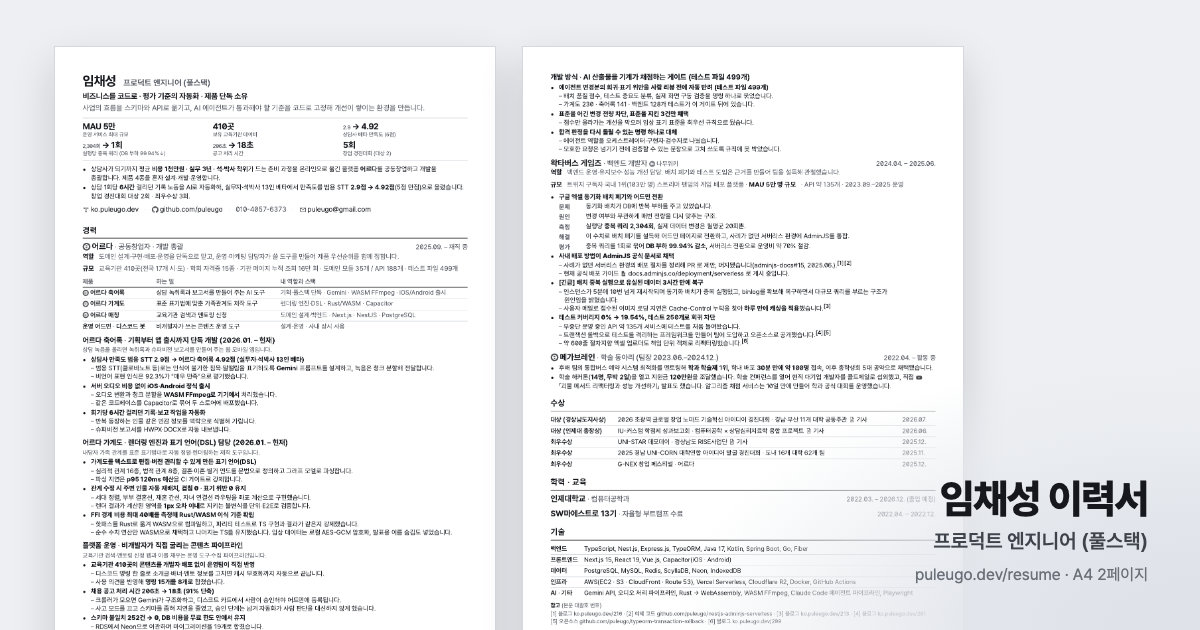
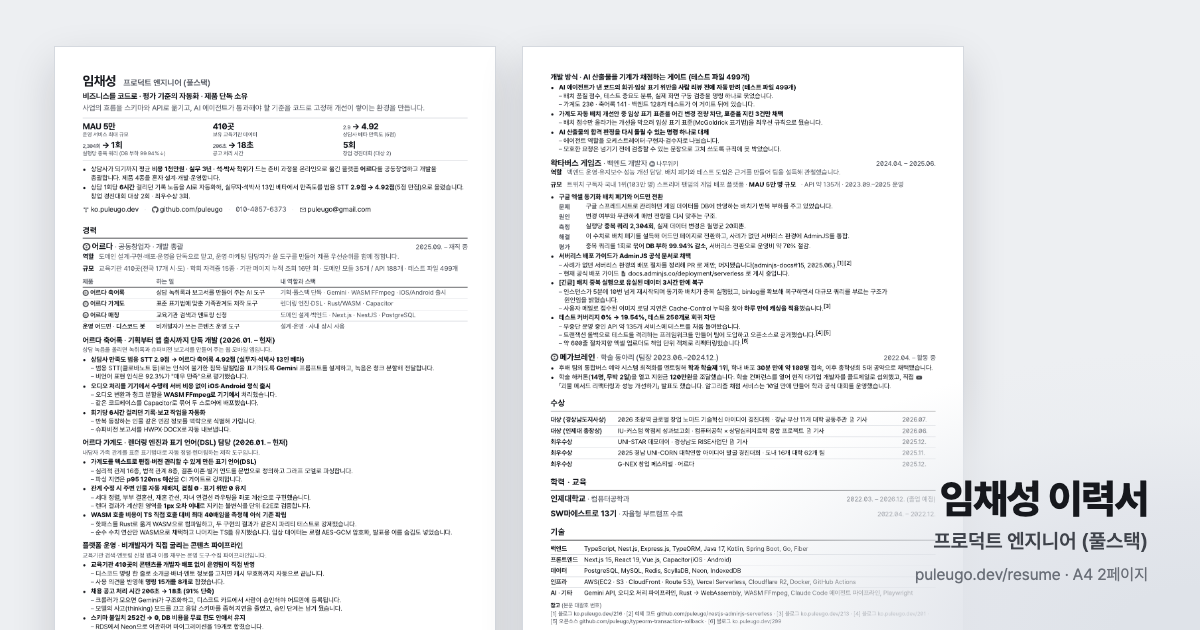
fix: 각 작업 항목이 단독으로 읽히도록 대상·기준 명시
- 게이트 항목에 대상(AI 에이전트 코드, 가계도 자동 배치 개선안, 임상 표기 표준) 명시
- FFI 40배는 TS 직접 호출 대비임을 밝히고, 오디오 처리 위치(기기)를 제목에 반영
- 동기화 배치가 무엇을 옮기던 작업인지, thinking 모드가 무엇인지 보강

Claude-Session: https://claude.ai/code/session_01W7x6f6aizACV8L1Ey8iNMM

diff --git a/resume/index.html b/resume/index.html
@@ -317,7 +317,7 @@
 					<li>범용 STT(클로바노트 등)로는 인식이 불가한 침묵·말떨림을 표기하도록 <b>Gemini</b> 프롬프트를 설계하고, 녹음은 청크 분할해 전달합니다.</li>
 					<li>비언어 표현 인식은 92.3%가 "매우 만족"으로 평가했습니다.</li>
 				</ul></li>
-			<li class="task"><b>서버 오디오 비용 없이 <b>iOS·Android 정식 출시</b></b>
+			<li class="task"><b>오디오 처리를 기기에서 수행해 서버 비용 없이 <b>iOS·Android 정식 출시</b></b>
 				<ul class="how">
 					<li>오디오 변환과 청크 분할을 <b>WASM FFmpeg로 기기에서</b> 처리했습니다.</li>
 					<li>같은 코드베이스를 Capacitor로 묶어 두 스토어에 배포했습니다.</li>
@@ -344,9 +344,9 @@
 					<li>세대 정렬, 부부 결혼선, 재혼 간선, 자녀 연결선 라우팅을 좌표 계산으로 구현했습니다.</li>
 					<li>렌더 결과가 계산된 영역을 <b>1px 오차 이내</b>로 지키는 불변식을 단위·E2E로 검증합니다.</li>
 				</ul></li>
-			<li class="task"><b>FFI 경계 비용 <b>최대 40배</b>를 측정해 Rust/WASM 이식 기준 확립</b>
+			<li class="task"><b>WASM 호출 비용이 TS 직접 호출 대비 <b>최대 40배</b>임을 측정해 이식 기준 확립</b>
 				<ul class="how">
-					<li>핫패스를 Rust로 옮겨 WASM으로 컴파일하고, 파리티 테스트로 TS 구현과 결과가 같은지 강제했습니다.</li>
+					<li>핫패스를 Rust로 옮겨 WASM으로 컴파일하고, 두 구현의 결과가 같은지 파리티 테스트로 강제했습니다.</li>
 					<li>순수 수치 연산만 WASM으로 채택하고 나머지는 TS를 유지했습니다. 임상 데이터는 로컬 AES-GCM 암호화, 발표용 이름 숨김도 넣었습니다.</li>
 				</ul></li>
 			</ul>
@@ -364,7 +364,7 @@
 			<li class="task"><b>채용 공고 처리 시간 206초 → <b>18초</b> (91% 단축)</b>
 				<ul class="how">
 					<li>크롤러가 모으면 Gemini가 구조화하고, 디스코드 카드에서 사람이 승인해야 어드민에 등록됩니다.</li>
-					<li>사고 모드를 끄고 스키마를 좁혀 지연을 줄였고, 승인 단계는 남겨 자동화가 사람 판단을 대신하지 않게 했습니다.</li>
+					<li>모델의 사고(thinking) 모드를 끄고 응답 스키마를 좁혀 지연을 줄였고, 승인 단계는 남겨 뒀습니다.</li>
 				</ul></li>
 			<li class="task"><b>스키마 불일치 <b>252건 → 0</b>, DB 비용을 무료 한도 안에서 유지</b>
 				<ul class="how">
@@ -377,16 +377,16 @@
 	<div class="work">
 		<strong>개발 방식 · AI 산출물을 기계가 채점하는 게이트 (테스트 파일 499개)</strong>
 		<ul>
-			<li class="task"><b>에이전트 변경분의 회귀·표기 위반을 <b>사람 리뷰 전에 자동 반려</b> (테스트 파일 499개)</b>
+			<li class="task"><b>AI 에이전트가 낸 코드의 회귀·임상 표기 위반을 <b>사람 리뷰 전에 자동 반려</b> (테스트 파일 499개)</b>
 				<ul class="how">
 					<li>배치 품질 점수, 테스트 중요도 분류, 실제 화면 구동 검증을 명령 하나로 묶었습니다.</li>
 					<li>가계도 230 · 축어록 141 · 백엔드 128개 테스트가 이 게이트 뒤에 있습니다.</li>
 				</ul></li>
-			<li class="task"><b>표준을 어긴 변경 전량 차단, <b>표준을 지킨 3건만 채택</b></b>
+			<li class="task"><b>가계도 자동 배치 개선안 중 임상 표기 표준을 어긴 변경 전량 차단, <b>표준을 지킨 3건만 채택</b></b>
 				<ul class="how">
-					<li>점수만 올라가는 개선을 막으려 임상 표기 표준을 최우선 규칙으로 뒀습니다.</li>
+					<li>배치 점수만 올라가는 개선을 막으려 임상 표기 표준(McGoldrick 표기법)을 최우선 규칙으로 뒀습니다.</li>
 				</ul></li>
-			<li class="task"><b>합격 판정을 <b>다시 돌릴 수 있는 명령 하나</b>로 대체</b>
+			<li class="task"><b>AI 산출물의 합격 판정을 <b>다시 돌릴 수 있는 명령 하나</b>로 대체</b>
 				<ul class="how">
 					<li>에이전트 역할을 오케스트레이터·구현자·검수자로 나눴습니다.</li>
 					<li>모호한 요청은 넘기기 전에 검증할 수 있는 문장으로 고쳐 쓰도록 규칙에 못 박았습니다.</li>
@@ -405,13 +405,13 @@
 	<ul>
 		<li class="case-study"><b>구글 엑셀 동기화 배치 폐기와 어드민 전환</b>
 				<dl>
-					<dt>문제</dt><dd>동기화 배치가 DB에 반복 부하를 주고 있었습니다.</dd>
+					<dt>문제</dt><dd>구글 스프레드시트로 관리하던 게임 데이터를 DB에 반영하는 배치가 반복 부하를 주고 있었습니다.</dd>
 					<dt>원인</dt><dd>변경 여부와 무관하게 매번 전량을 다시 맞추는 구조.</dd>
 					<dt>측정</dt><dd>실행당 <b>중복 쿼리 2,304회</b>, 실제 데이터 변경은 월평균 20회뿐.</dd>
 					<dt>해결</dt><dd>이 수치로 배치 폐기를 설득해 어드민 페이지로 전환하고, 사례가 없던 서버리스 환경에 AdminJS를 통합.</dd>
 					<dt>평가</dt><dd>중복 쿼리를 1회로 묶어 <b>DB 부하 99.94% 감소</b>, 서버리스 전환으로 운영비 약 70% 절감.</dd>
 				</dl></li>
-		<li class="task"><b>사내 배포 방법이 <b>AdminJS 공식 문서</b>로 채택</b>
+		<li class="task"><b>서버리스 배포 가이드가 <b>AdminJS 공식 문서</b>로 채택</b>
 				<ul class="how">
 					<li>사례가 없던 서버리스 환경의 배포 절차를 정리해 PR 로 제안, 머지됐습니다(adminjs-docs#15, 2025.06.).<sup class="footnote"><a href="https://ko.puleugo.dev/216" data-card="1" data-preview data-tip="블로그 「[NestJS] AdminJS 프로덕션 배포하기」">1</a></sup><sup class="footnote"><a href="https://github.com/puleugo/nestjs-adminjs-serverless" target="_blank" rel="noopener" data-tip="예제 코드 nestjs-adminjs-serverless. 새 탭에서 열립니다">2</a></sup></li>
 					<li>현재 공식 배포 가이드 <a href="https://docs.adminjs.co/deployment/serverless" data-preview data-tip="AdminJS 공식 문서 미리보기 (Deployment / Serverless)"><svg class="icon"><use href="#i-doc-b"/></svg>docs.adminjs.co/deployment/serverless</a> 로 게시 중입니다.</li>
